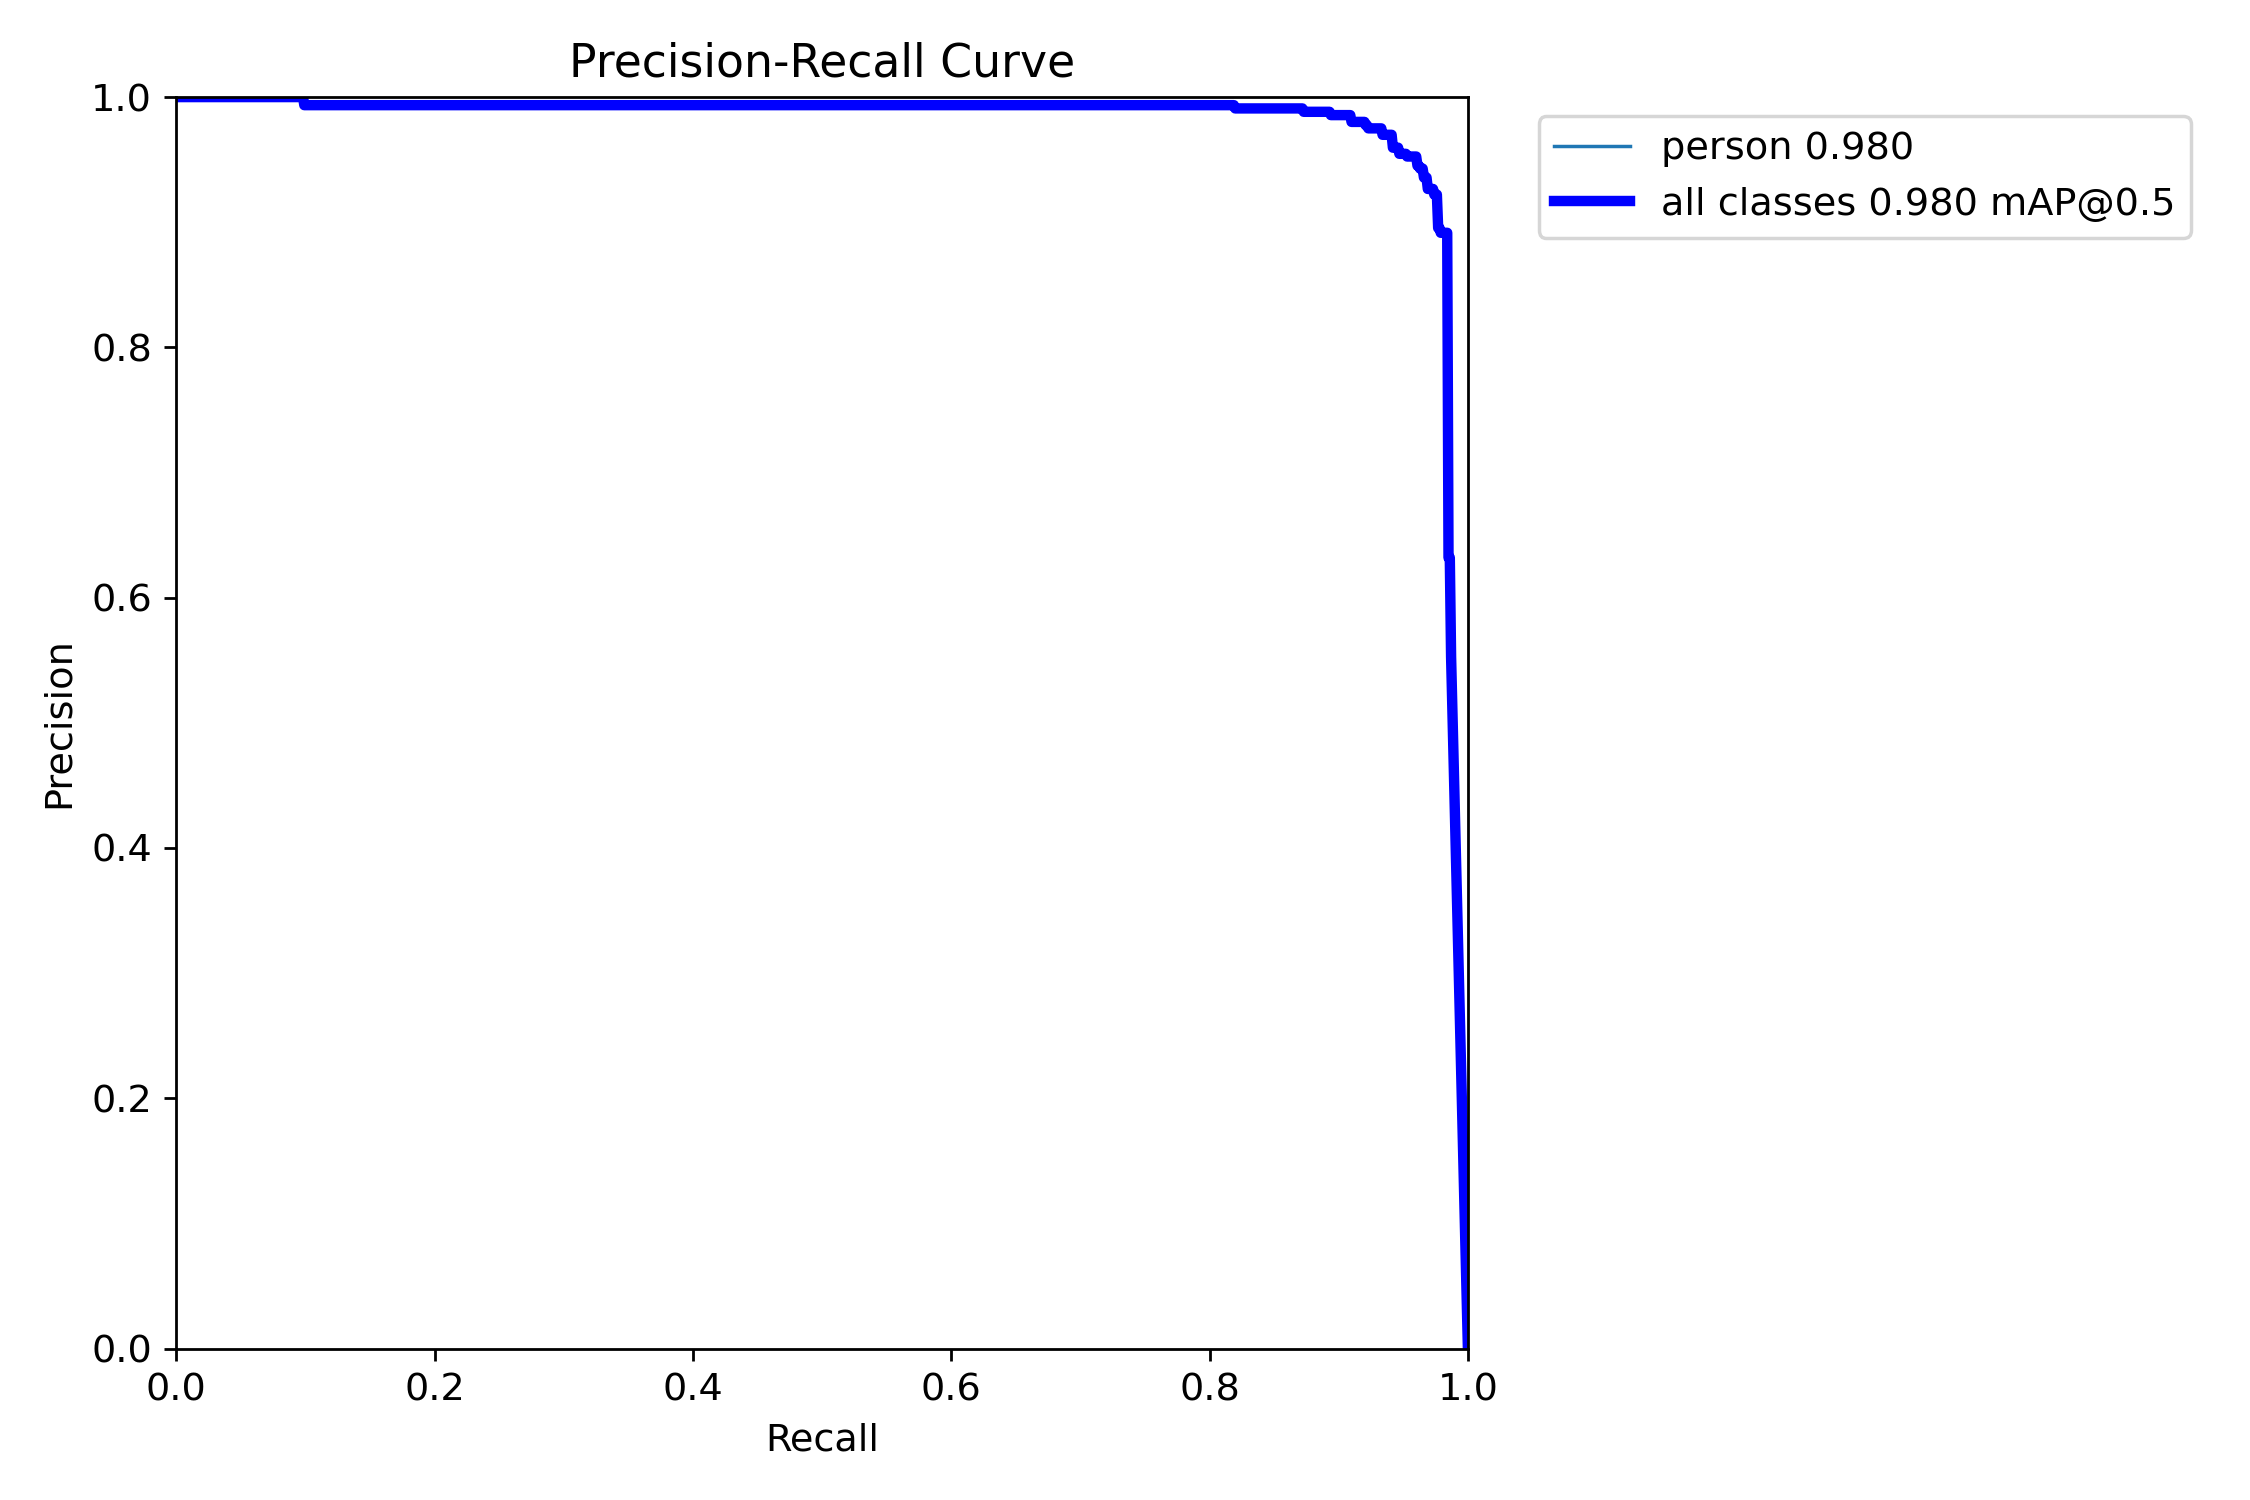
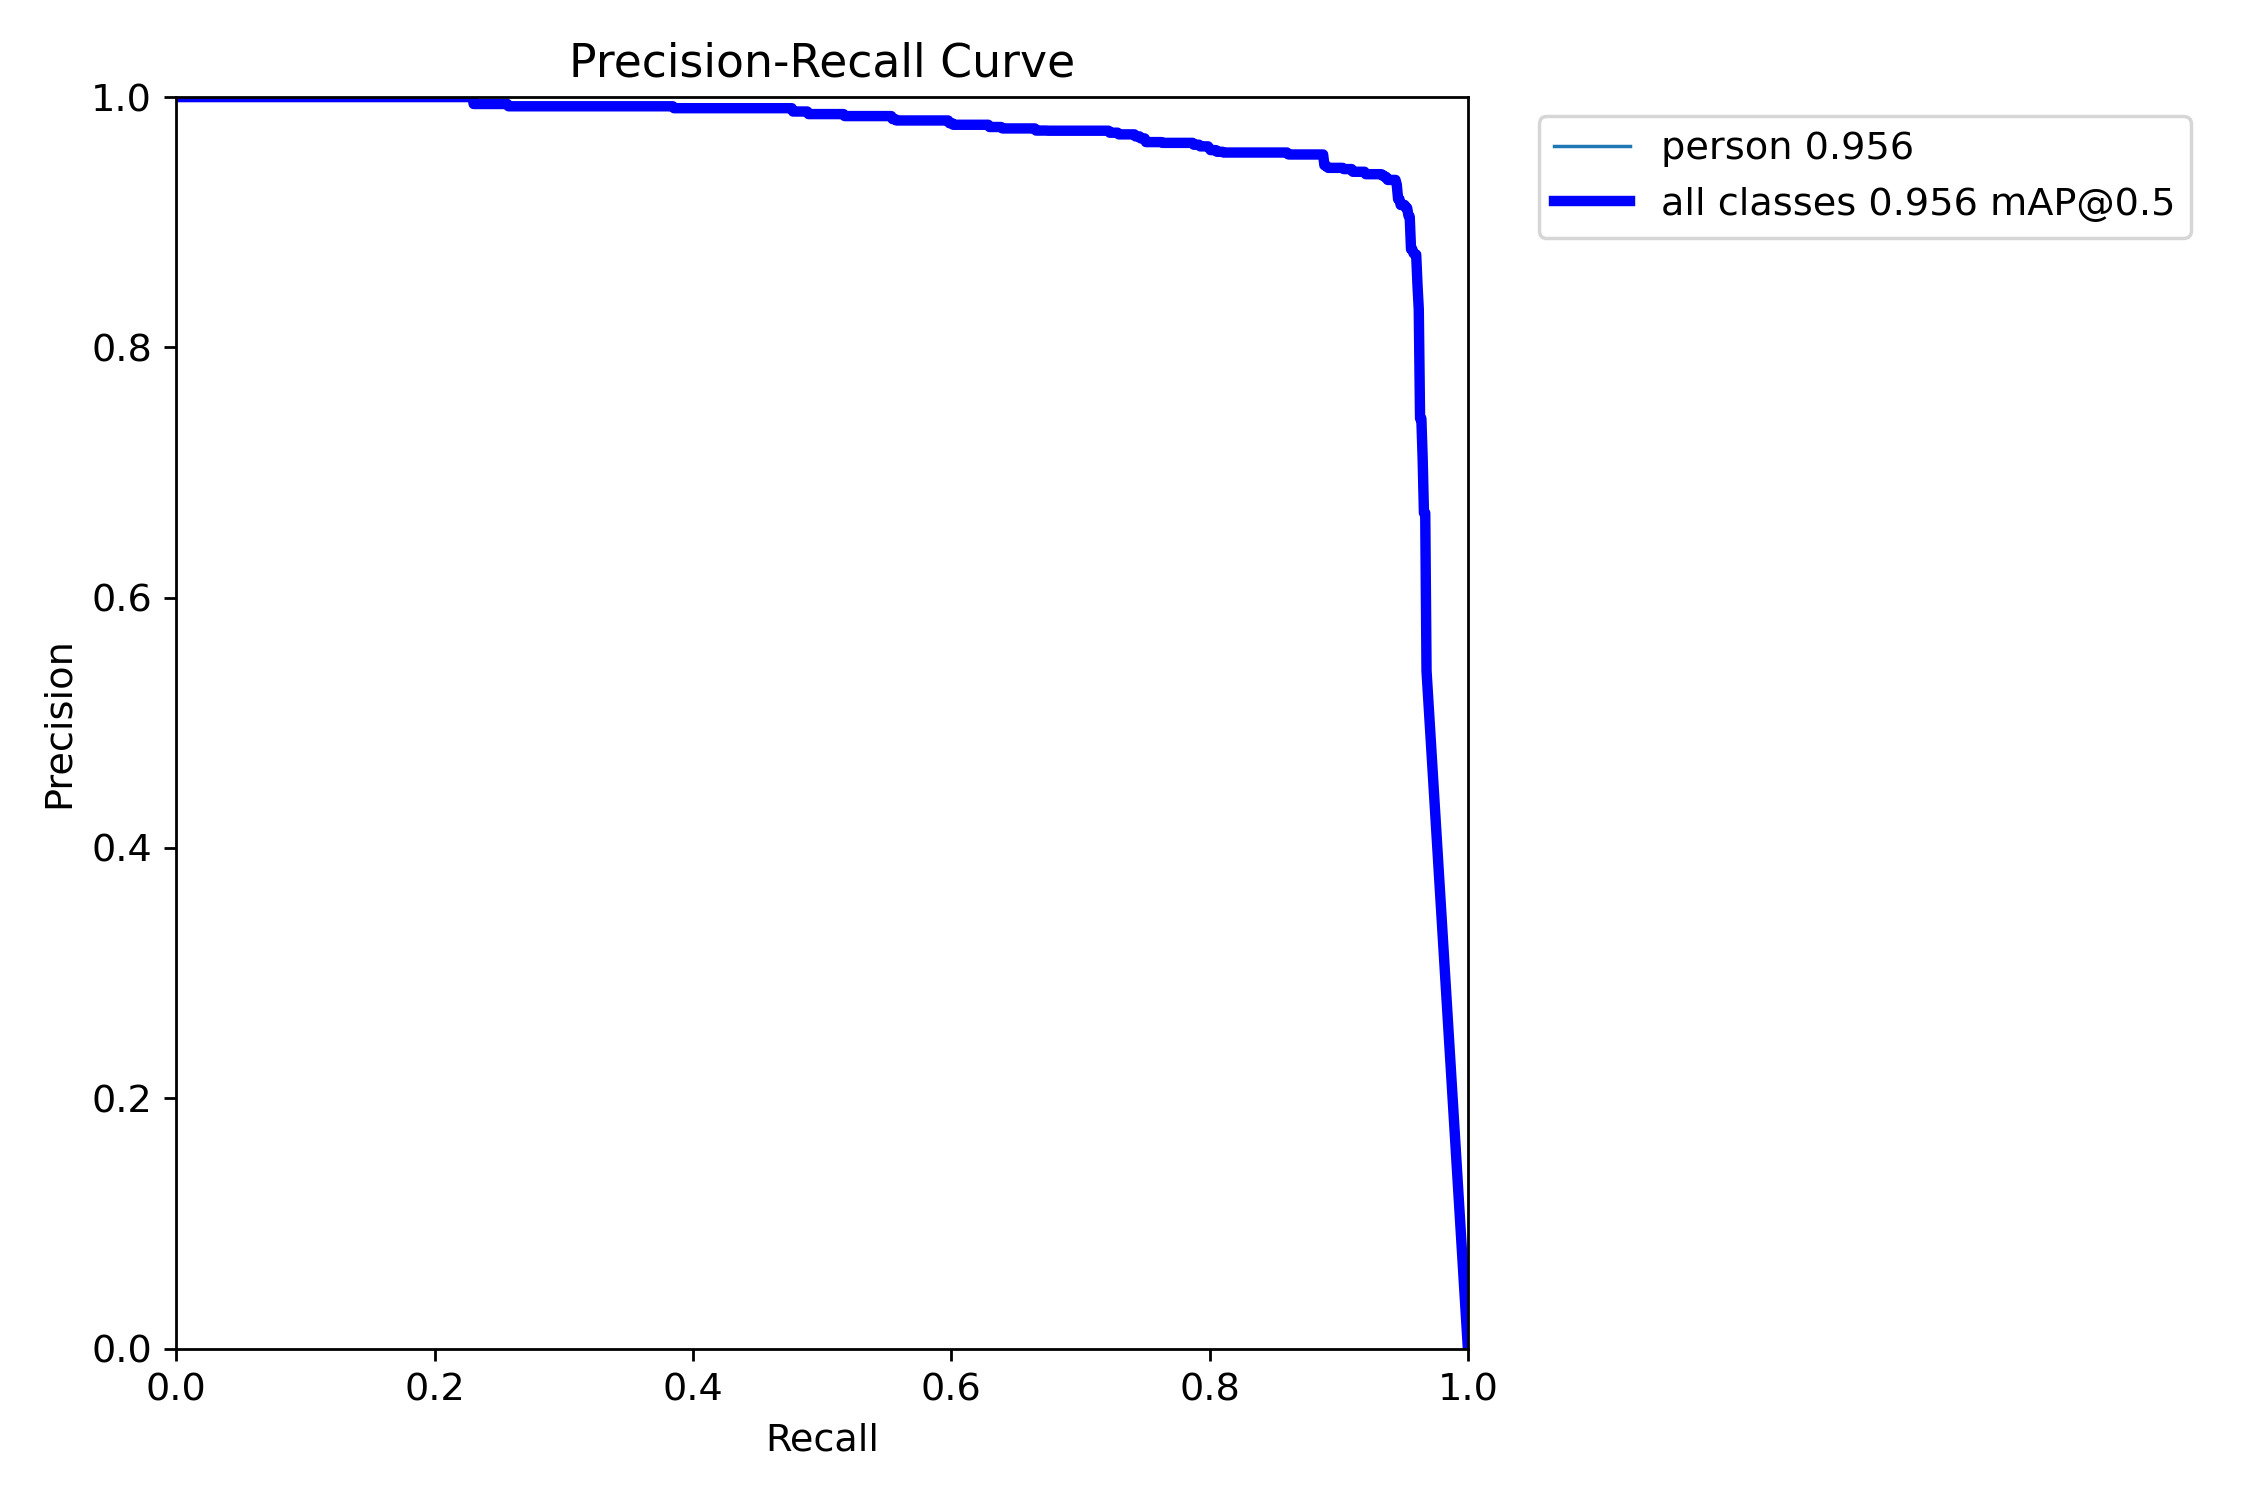
Update: README.md has been changed, latest yolo model has been updated for downloading

Changed region(s): [[0.3111, 0.0613, 0.6533, 0.828], [0.1244, 0.0613, 0.2178, 0.092]]

diff --git a/train_yolo.py b/train_yolo.py
@@ -5,9 +5,6 @@ from ultralytics import YOLO
 import argparse
 
 
-yaml_path: str = './roboflow_1394/data.yaml'
-
-
 def train_yolo(dataset_yaml_path: str = None, imgsz: int = 640, batch: int = 8,
                lr0: float = 0.0001, optimizer: str = 'Adam',
                project: str = './training_runs', name: str = f'training_yolo_{time()}'):
@@ -28,21 +25,15 @@ def train_yolo(dataset_yaml_path: str = None, imgsz: int = 640, batch: int = 8,
 
 
 if __name__ == "__main__":
-    # current_time = time()
-    # parser = argparse.ArgumentParser()
-    # parser.add_argument("--dataset_yaml_path", type=str, required=True)
-    # parser.add_argument("--imgsz", type=int, required=False, default=640)
-    # parser.add_argument("--batch", type=int, required=True, default=8)
-    # parser.add_argument("--epochs", type=int, required=True, default=100)
-    # parser.add_argument("--lr0", type=float, required=True, default=0.0001)
-    # parser.add_argument("--optimizer", type=float, required=False, default='Adam')
-    # parser.add_argument("--project", type=str, required=False, default='./training_runs')
-    # parser.add_argument("--name", type=str, required=False, default=f'training_yolo_{current_time}')
-    # args = parser.parse_args()
-    # train_yolo(**vars(args))
-    train_yolo(
-        dataset_yaml_path=yaml_path,
-        optimizer='Adam',
-        batch=8,
-        lr0=0.0001
-    )
+    current_time = time()
+    parser = argparse.ArgumentParser()
+    parser.add_argument("--dataset_yaml_path", type=str, required=True)
+    parser.add_argument("--imgsz", type=int, required=False, default=640)
+    parser.add_argument("--batch", type=int, required=True, default=8)
+    parser.add_argument("--epochs", type=int, required=True, default=100)
+    parser.add_argument("--lr0", type=float, required=True, default=0.0001)
+    parser.add_argument("--optimizer", type=str, required=False, default='Adam')
+    parser.add_argument("--project", type=str, required=False, default='./training_runs')
+    parser.add_argument("--name", type=str, required=False, default=f'training_yolo_{current_time}')
+    args = parser.parse_args()
+    train_yolo(**vars(args))

diff --git a/utils.py b/utils.py
@@ -4,8 +4,8 @@ import uuid
 import requests
 
 
-def download_pretrained_yolo(link: str = 'https://raw.githubusercontent.com/constsynth/models/master/yolo/yolov8s-human-v2.pt',
-                             model_name: str = 'yolov8s-human-v2.pt') -> str:
+def download_pretrained_yolo(link: str = 'https://raw.githubusercontent.com/constsynth/models/master/yolo/yolov8s-human-v3.pt',
+                             model_name: str = 'yolov8s-human-v3.pt') -> str:
 
     """
         Method to download pretrained YOLOv8
@@ -44,14 +44,3 @@ def video_to_frames(path_to_video: str = None, output_path: str = None):
         if not ret:
             break
         cv2.imwrite(f'{output_path}/{uuid.uuid4()}.jpg', frame)
-
-#
-# if __name__ == "__main__":
-#     base_path = 'stanforddata/videos/{name}/{video_num}/video.mp4'
-#     base_output_path = './output_frames'
-#     names = os.listdir('./stanforddata/videos')
-#     for name in names:
-#         for num in range(3):
-#             path_to_video = base_path.replace('{name}', name).replace('{video_num}', f'video{num}')
-#             output_path = f'{base_output_path}/{name}/video{num}'
-#             video_to_frames(path_to_video, output_path)

diff --git a/inference_one_image.py b/inference_one_image.py
@@ -25,11 +25,11 @@ def inference(path_to_model: str = None, path_to_image: str = '/defaults/img_1.j
     else:
         models_folder = './models'
         os.makedirs(models_folder, exist_ok=True)
-        if not os.path.exists(f"{models_folder}/yolov8s-human-v2.pt"):
+        if not os.path.exists(f"{models_folder}/yolov8s-human-v3.pt"):
             path_to_yolo = download_pretrained_yolo()
             model = upload_model(path_to_yolo, device=device)
         else:
-            model = upload_model(f"{models_folder}/yolov8s-human-v2.pt", device=device)
+            model = upload_model(f"{models_folder}/yolov8s-human-v3.pt", device=device)
 
 
     results = model.predict(source=path_to_image,
@@ -58,7 +58,6 @@ if __name__ == "__main__":
     parser.add_argument("--save_result", type=bool, required=False, default=False)
     parser.add_argument("--show_result", type=bool, required=False, default=True)
     args = parser.parse_args()
-    print(args)
     inference(**vars(args))
 
 

diff --git a/tracking_on_video.py b/tracking_on_video.py
@@ -34,11 +34,11 @@ def tracking(path_to_model: str = None, path_to_video: str = './defaults/video_1
     else:
         models_folder = './models'
         os.makedirs(models_folder, exist_ok=True)
-        if not os.path.exists(f"{models_folder}/yolov8s-human-v2.pt"):
+        if not os.path.exists(f"{models_folder}/yolov8s-human-v3.pt"):
             path_to_yolo = download_pretrained_yolo()
             model = upload_model(path_to_yolo, device=device)
         else:
-            model = upload_model(f"{models_folder}/yolov8s-human-v2.pt", device=device)
+            model = upload_model(f"{models_folder}/yolov8s-human-v3.pt", device=device)
     cap = cv2.VideoCapture(path_to_video)
 
     track_history = defaultdict(lambda: [])

diff --git a/inference_video.py b/inference_video.py
@@ -26,11 +26,11 @@ def inference(path_to_model: str = None, path_to_video: str = './defaults/video_
     else:
         models_folder = './models'
         os.makedirs(models_folder, exist_ok=True)
-        if not os.path.exists(f"{models_folder}/yolov8s-human-v2.pt"):
+        if not os.path.exists(f"{models_folder}/yolov8s-human-v3.pt"):
             path_to_yolo = download_pretrained_yolo()
             model = upload_model(path_to_yolo, device=device)
         else:
-            model = upload_model(f"{models_folder}/yolov8s-human-v2.pt", device=device)
+            model = upload_model(f"{models_folder}/yolov8s-human-v3.pt", device=device)
     cap = cv2.VideoCapture(path_to_video)
 
     while True:

diff --git a/README.md b/README.md
@@ -10,9 +10,9 @@ This is a project with which you can detect people in images taken from UAVs. Yo
 
 ### Predictions based on some examples from the validation dataset
 
-<img src="images/val_batch0_pred.jpg" alt="Hello!">
+<img src="images/val_batch1_pred.jpg" alt="Hello!">
 
-All augmentations that were applied to the input images during training were taken from YOLv8 `default.yaml` file.
+All augmentations that were applied to the input images during training were taken from YOLOv8 `default.yaml` file.
 
 Input dataset was made by combining three datasets from [Roboflow](https://universe.roboflow.com/):
 * [First](https://universe.roboflow.com/sakarya/kontrol-gx8vv/dataset/2)
@@ -83,7 +83,7 @@ python tracking_on_video.py --path_to_model $PATH_TO_MODEL --path_to_video $PATH
 ## Training
 ### You can create your own dataset (*optional*)
 
-You can make your own dataset. By clicking on the [link](https://drive.google.com/file/d/1dAjNMyxm8inWyXslofD0axKiXIo5DS4y/view?usp=drive_link), you can download a smaller version Stanford Campus Dataset (downloaded and zipped from Kaggle), then use the `video_to_frames` method from the `utils.py` file and slice the video clips from the dataset into frames. First 100 frames of the video will be saved by default.
+You can make your own dataset. By clicking on the [link](https://drive.google.com/file/d/1dAjNMyxm8inWyXslofD0axKiXIo5DS4y/view?usp=drive_link), you can download a smaller version of Stanford Campus Dataset (downloaded and zipped from Kaggle), then use the `video_to_frames` method from the `utils.py` file and slice the video clips from the dataset into frames. First 100 frames of the video will be saved by default.
 
 If you want to train your own YOLOv8 human-detection model, you can do this using `yolo_train.py` file.
 ```python
